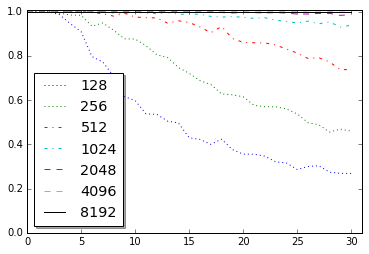
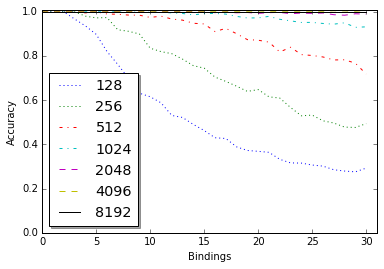
New images, few corrections

diff --git a/papers/hrr-paper/paper.tex b/papers/hrr-paper/paper.tex
@@ -394,7 +394,7 @@
 		Vector Symbolic Architectures (VSAs) define a set of operations
 		for association, (compressed) storage, manipulation and retrieval
 		of symbolic concepts, represented as fixed-length vectors in
-		${\rm I\!R}^N$.
+		${\rm I\!R}^n$.
 		A subset of VSAs, Holographic Reduced Representations (HRRs),
 		have proven to exhibit properties similar to human short-term
 		memory and are, as such, interesting for computational modeling.
@@ -520,7 +520,7 @@ cos(\pmb x, \pmb y) = \frac {\pmb x \cdot \pmb y}{||\pmb x|| \cdot ||\pmb y||}
 	The process of converting the noisy result of probing into the closest known symbol is called the \textbf{clean-up procedure}.
 A straightforward way of implementing clean-up memory is using a lookup table, while other researchers show that any type of attractor network can be used (e.g. self-organizing maps).
 
-	In the case of look-up tables, in order to decode a specific symbolic vector, the elements from a symbol table are iterated over, the similarity to each of the entries is calculated and the symbol which presented maximum similarity is returned. With the help of a threshold for the similarity value false-positives can be excluded. A look-up requires O(n), where $n$ is the number of symbols known to the system. This approach works quite well for object identifiers (names), but has some non-desirable properties when used on scalar encoding. The space complexity will increase and may become infeasible, depending on the number of inputs needed. One way of handling symbolic scalar encoding is to discretize the whole input range into bins and assigning a random vector to each discrete value. This however may often prove to not satisfy the task needs any more.
+	In the case of lookup tables, in order to decode a specific symbolic vector, the elements from a symbol table are iterated over, the similarity to each of the entries is calculated and the symbol which presented maximum similarity is returned. With the help of a threshold for the similarity value false-positives can be excluded. A lookup requires O(n), where $n$ is the number of symbols known to the system. This approach works quite well for object identifiers (names), but has some non-desirable properties when used on scalar encoding. The space complexity will increase and may become infeasible, depending on the number of inputs needed. One way of handling symbolic scalar encoding is to discretize the whole input range into bins and assigning a random vector to each discrete value. This however may often prove to not satisfy the task needs any more.
 	
 	\subsection{Holographic reduced representations}
 	\label{sec:hrr}
@@ -653,10 +653,10 @@ In figure \ref{perm-b} "ball" is being probed, and the expected result is a Gaus
 			\ForAll{$(symbol_1, symbol_2)$}
 			\State $enc_1 \gets FFT(t_{symbol_1})$
 			\State $enc_2 \gets FFT(t_{symbol_2})$
-			\State $m \gets m + IFFT(enc_1 \otimes enc_2$)
+			\State $m \gets m + IFFT(enc_1 * enc_2$)
 			\EndFor		
 			\Function{ProbeMemory}{memory, op}
-			\State $result\gets IFFT(FFT(memory)\oslash FFT(op))$
+			\State $result\gets IFFT(FFT(memory)* FFT(op)^{-1})$
 			
 			\ForAll{$symbol$}
 			\State $s \gets cosineSimilarity(t_{symbol}, result)$
@@ -671,7 +671,7 @@ In figure \ref{perm-b} "ball" is being probed, and the expected result is a Gaus
 	\end{algorithm}
 	
 	
-	Lines 1-3 assign a random vector representation to each symbol known to the system prior to any other operations. This lookup table is stored in array $t$. Lines 4-9 initialize the memory $m$ with arbitrary amount of pairs of associated scalars. Function $ProbeMemory(memory, op)$ returns symbol associated with provided $op$. Line 11 performs circular correlation and stores noisy result of unbinding in $s$. Lines 12-18 loop through the whole lookup table and find the maximum similarity vector to $s$.
+	Lines 1-3 assign a random vector representation to each symbol known to the system prior to any other operations. This lookup table is stored in an array $t$. Lines 4-9 initialize the memory $m$ with an arbitrary amount of pairs of associated scalars. Function $ProbeMemory(memory, op)$ returns a symbol associated with provided $op$. Line 11 performs circular correlation and stores the noisy result of unbinding in $s$. Lines 12-18 loop through the whole lookup table and find the maximum similarity vector to $s$.
 		
 		\begin{algorithm}
 			\caption{Modified pipeline}
@@ -681,10 +681,10 @@ In figure \ref{perm-b} "ball" is being probed, and the expected result is a Gaus
 				\ForAll{$(symbol_1, symbol_2)$}
 				\State $enc_1 \gets FFT(permute(enc(symbol_1, n), P))$
 				\State $enc_2 \gets FFT(permute(enc(symbol_2, n), P))$
-				\State $m \gets m + IFFT(enc_1 \otimes enc_2)$
+				\State $m \gets m + IFFT(enc_1 * enc_2)$
 				\EndFor	
 				\Function{ProbeMemory}{memory, op}
-				\State $r \gets IFFT(FFT(memory) \oslash FFT(op))$
+				\State $r \gets IFFT(FFT(memory) * FFT(op)^{-1})$
 				\State $r \gets permute(r, P^{-1})$
 				\State $cleanResult \gets argmax(r)$
 				
@@ -693,7 +693,7 @@ In figure \ref{perm-b} "ball" is being probed, and the expected result is a Gaus
 			\end{algorithmic}
 		\end{algorithm}
 		
-		In contrast, Algorithm 2 shows pipeline with proposed changes. First line chooses a fixed random permutation of $n$ elements used throughout the whole process. It can bee seen that there is no initial loop to assign symbolic representations to all symbols. They are, instead, constructed according to need using function $enc(value, n)$, which returns discrete sampled normal distribution vector of $n$ elements, centered around $value$. This perfectly sampled normal distribution is permuted using permutation $P$ in lines 4 and 5, so its frequency representation contains uniform spread over the whole spectrum, as explained earlier in this chapter. Probing operation consists of applying inverse permutation $P^{-1}$ after IFFT (line 9). Since this gives a noisy version of initial normal distribution (shown in figure \ref{perm-b}), the only thing that needs to be done is to identify the mean of the distribution. Complexity of this operation is linear w.r.t. length of the vector $N$, while in case of Algorithm 1 it is linear w.r.t. to number of symbols stored in the lookup table.
+		In contrast, Algorithm 2 shows a pipeline with our proposed changes. The first line chooses a fixed random permutation of $n$ elements used throughout the whole process. There is no initial loop to assign symbolic representations to all symbols. They are, instead, constructed according to need using function $enc(value, n)$. This function returns a discrete sampled Gaussian distribution vector of $n$ elements, centred around a chosen $value$. The vector is then permuted using a permutation $P$ in lines 4 and 5, so its frequency representation contains uniform spread over the whole spectrum, as explained earlier in this chapter. The probing operation consists of applying an inverse permutation $P^{-1}$ after IFFT (line 10). Since this returns a noisy version of the initial Gaussian distribution (shown in figure \ref{perm-b}), the only thing that needs to be done is to identify the peak of the distribution. The complexity of this operation is linear w.r.t. length of the vector $n$, while in the case of Algorithm 1 it is linear w.r.t. to number of symbols stored in the lookup table.
 		
 
 	\subsection{Encoding coordinate symbols}
@@ -716,7 +716,7 @@ In figure \ref{perm-b} "ball" is being probed, and the expected result is a Gaus
 			\begin{subfigure}{0.45\columnwidth}
 				\center
 				\includegraphics[width=1\columnwidth]{img/capacity.png}
-				\caption{Binding pairs of random vectors (original pipeline).}
+				\caption{Binding pairs of random vectors. Accuracy decreases with more bindings.}
 				\label{fig:capacity}
 			\end{subfigure}
 			\begin{subfigure}{0.45\columnwidth}
@@ -752,7 +752,7 @@ In figure \ref{perm-b} "ball" is being probed, and the expected result is a Gaus
 	\label{sec:experiments}
 	\subsection{Visual short term memory and top-down attention model}
 	
-	In this experiment a system is given a monocular stream as an input. An arbitrary algorithm is used to perform object detection and recognition, resulting in a number of 2D coordinates associated with respective object names (figure \ref{fig:object-detection}). Object names are strings and are encoded as random vectors of length $n$, which are sampled from a normal distribution (figure \ref{fig:encoding-object}). The locations of objects in the image plane are 2D coordinates $(x,y)$ and they are perceptually grounded symbols (figure \ref{fig:encoding-coord}).
+	In this experiment a system is given a monocular stream as an input. An arbitrary algorithm is used to perform object detection and recognition, resulting in a number of 2D coordinates associated with respective object names (figure \ref{fig:object-detection}). Object names are strings and are encoded as random vectors of length $n$, which are sampled from a Gaussian distribution (figure \ref{fig:encoding-object}). The locations of objects in the image plane are 2D coordinates $(x,y)$ and they are perceptually grounded symbols (figure \ref{fig:encoding-coord}).
 	
 	
 	\begin{figure}[th!]

diff --git a/vsa/legend.py b/vsa/legend.py
@@ -5,7 +5,7 @@ def getLegend(v,start):
     sh = len(v)
     linestyles = ['-', '--', '-.', ':']
     for i in range(sh):
-        plt.plot(v[i], linestyles[3-i*4/sh], label=start*pow(2,i))
+        plt.plot(v[i], linestyles[3-i*4/sh], label=start*pow(4,i))
     plt.axis([0,len(v[0]),0,1.01])
     plt.xlabel('Bindings')
     plt.ylabel('Accuracy')
